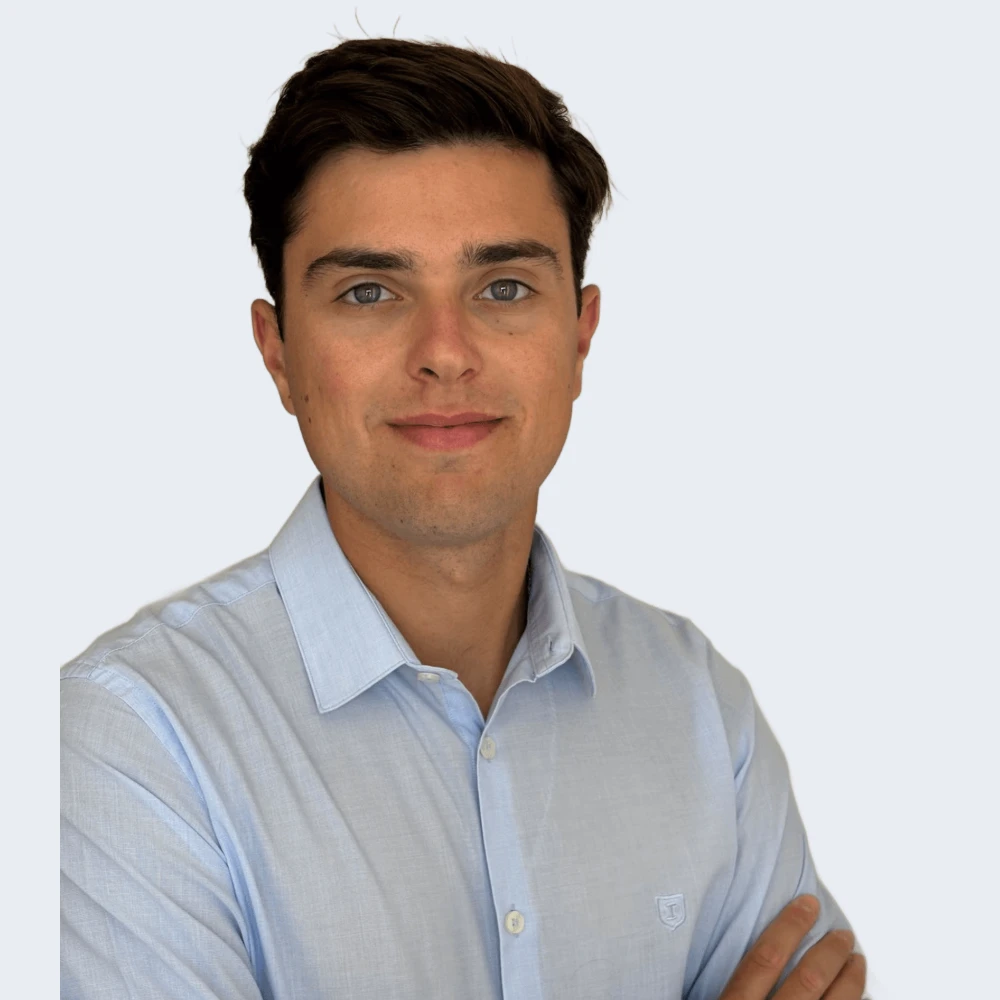
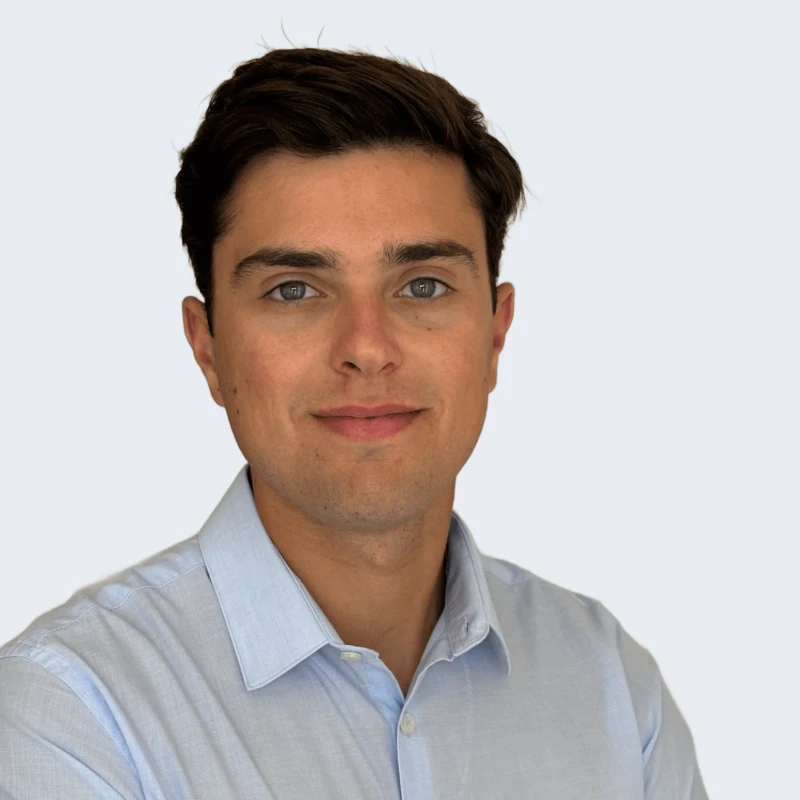
sobre nós (dev): caixas dos fundadores mais pequenas, à maneira da Searchable
- 4 colunas: os três fundadores + convite "Construa a Finer One connosco"
  (Finer Pioneers), como o "Join the team" da Searchable.
- Fotografias reenquadradas: cabeças à mesma escala, ombros cortados da foto
  original encostados às bordas da caixa (Igor, Sebastião).
- Texto mais pequeno e risca mais fina, proporcional às caixas.

diff --git a/src/pages/AboutPage.tsx b/src/pages/AboutPage.tsx
@@ -27,6 +27,9 @@ const copy = {
     ],
     peopleTitle: ['Três pessoas. ', 'Uma visão.'],
     cofounder: 'Cofundador',
+    joinTitle: ['Construa a Finer One ', 'connosco.'],
+    joinText: 'Teste a plataforma antes do lançamento e ajude-nos a definir o que vem a seguir.',
+    joinCta: 'Ser Finer Pioneer',
     peopleSub: 'Tecnologia, negócios e finanças a trabalhar em conjunto para transformar a gestão das empresas.',
     founders: [
       { name: 'Henrique Bértolo', photo: '/images/fundadores/henrique.webp', quote: 'O empresário trabalha para o negócio. O que tem de acontecer é o negócio trabalhar para o empresário.' },
@@ -66,6 +69,9 @@ const copy = {
     ],
     peopleTitle: ['Three people. ', 'One vision.'],
     cofounder: 'Co-founder',
+    joinTitle: ['Build Finer One ', 'with us.'],
+    joinText: 'Try the platform before launch and help us shape what comes next.',
+    joinCta: 'Become a Finer Pioneer',
     peopleSub: 'Technology, business and finance working together to transform how companies are managed.',
     founders: [
       { name: 'Henrique Bértolo', photo: '/images/fundadores/henrique.webp', quote: 'Business owners work for their business. What needs to happen is the business working for them.' },
@@ -192,32 +198,50 @@ function People({ t }: { t: T }) {
         </div>
 
         {/* Como na apresentação Investidores & Parcerias: fotografia, risca azul, nome — e a frase de cada um */}
-        <div className="mt-14 grid gap-12 sm:gap-8 md:grid-cols-3">
+        <div className="mt-14 grid gap-x-6 gap-y-12 sm:grid-cols-2 lg:grid-cols-4">
           {t.founders.map((f, i) => (
             <motion.figure key={f.name} variants={rise}>
-              <div className="group overflow-hidden rounded-[22px] bg-[#E9ECF3]">
+              <div className="overflow-hidden rounded-[14px] bg-[#E9ECF3]">
                 <img
                   src={f.photo}
                   alt={f.name}
                   loading="lazy"
-                  className="aspect-square w-full object-cover object-top transition-transform duration-[1.2s] ease-out group-hover:scale-[1.03]"
+                  className="aspect-square w-full object-cover"
                 />
               </div>
               <motion.span
                 aria-hidden="true"
-                className="mt-7 block h-[4px] w-16 origin-left rounded-full bg-accent"
+                className="mt-5 block h-[3px] w-12 origin-left rounded-full bg-accent"
                 initial={{ scaleX: 0 }}
                 whileInView={{ scaleX: 1 }}
                 viewport={{ once: true, amount: 1 }}
                 transition={{ duration: 0.8, ease: EASE, delay: 0.15 + i * 0.12 }}
               />
               <figcaption className="mt-4">
-                <span className="block font-display text-[22px] font-bold tracking-[-0.01em] text-[#070D2B]">{f.name}</span>
-                <span className="mt-1 block text-[14px] font-medium text-[#0B1030]/55">{t.cofounder}</span>
+                <span className="block font-display text-[18px] font-bold tracking-[-0.01em] text-[#070D2B]">{f.name}</span>
+                <span className="mt-0.5 block text-[13.5px] font-medium text-[#0B1030]/55">{t.cofounder}</span>
               </figcaption>
-              <blockquote className="mt-3 text-[15.5px] leading-[1.6] text-[#0B1030]/65">“{f.quote}”</blockquote>
+              <blockquote className="mt-2.5 text-[14.5px] leading-[1.6] text-[#0B1030]/65">“{f.quote}”</blockquote>
             </motion.figure>
           ))}
+          <motion.a
+            variants={rise}
+            href="/pioneers/"
+            className="group relative flex aspect-square flex-col justify-between overflow-hidden rounded-[14px] bg-[#070D2B] p-6 text-white focus-visible:outline-none focus-visible:ring-2 focus-visible:ring-glow"
+          >
+            <img src="/images/sobre-linha.webp" alt="" aria-hidden="true" className="absolute inset-x-0 top-[30%] h-[24%] w-full object-cover object-[60%_50%] opacity-90 mix-blend-screen transition-transform duration-700 ease-out group-hover:translate-x-[-6%]" style={{ maskImage: 'linear-gradient(to bottom, transparent, #000 35%, #000 65%, transparent)', WebkitMaskImage: 'linear-gradient(to bottom, transparent, #000 35%, #000 65%, transparent)' }} />
+            <p className="relative font-display text-[22px] font-bold leading-[1.15] tracking-[-0.02em]">
+              {t.joinTitle[0]}
+              <span className="text-[#3D86FF]">{t.joinTitle[1]}</span>
+            </p>
+            <div className="relative">
+              <p className="text-[14px] leading-[1.55] text-white/70">{t.joinText}</p>
+              <span className="mt-4 inline-flex items-center gap-2 text-[14px] font-semibold">
+                {t.joinCta}
+                <ArrowRight className="h-4 w-4 transition-transform duration-300 group-hover:translate-x-1" aria-hidden="true" />
+              </span>
+            </div>
+          </motion.a>
         </div>
       </motion.div>
     </section>
